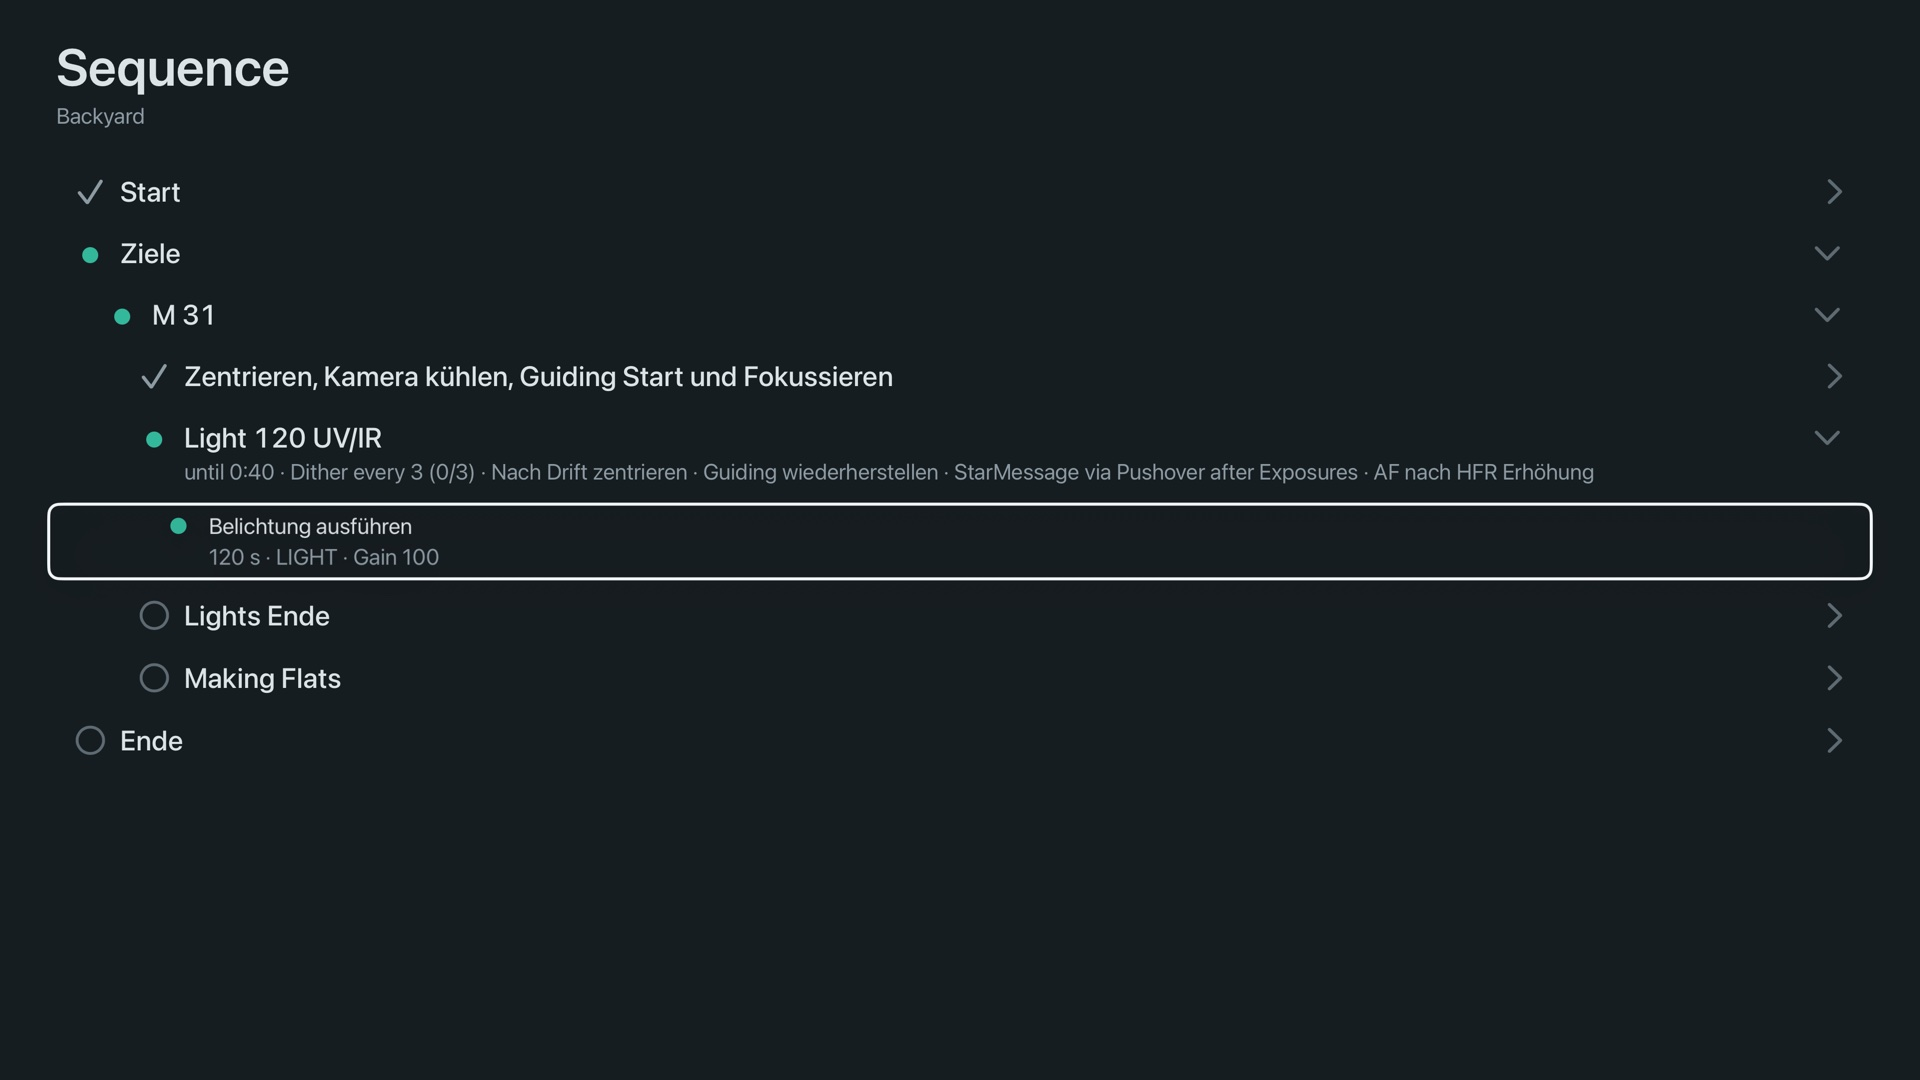
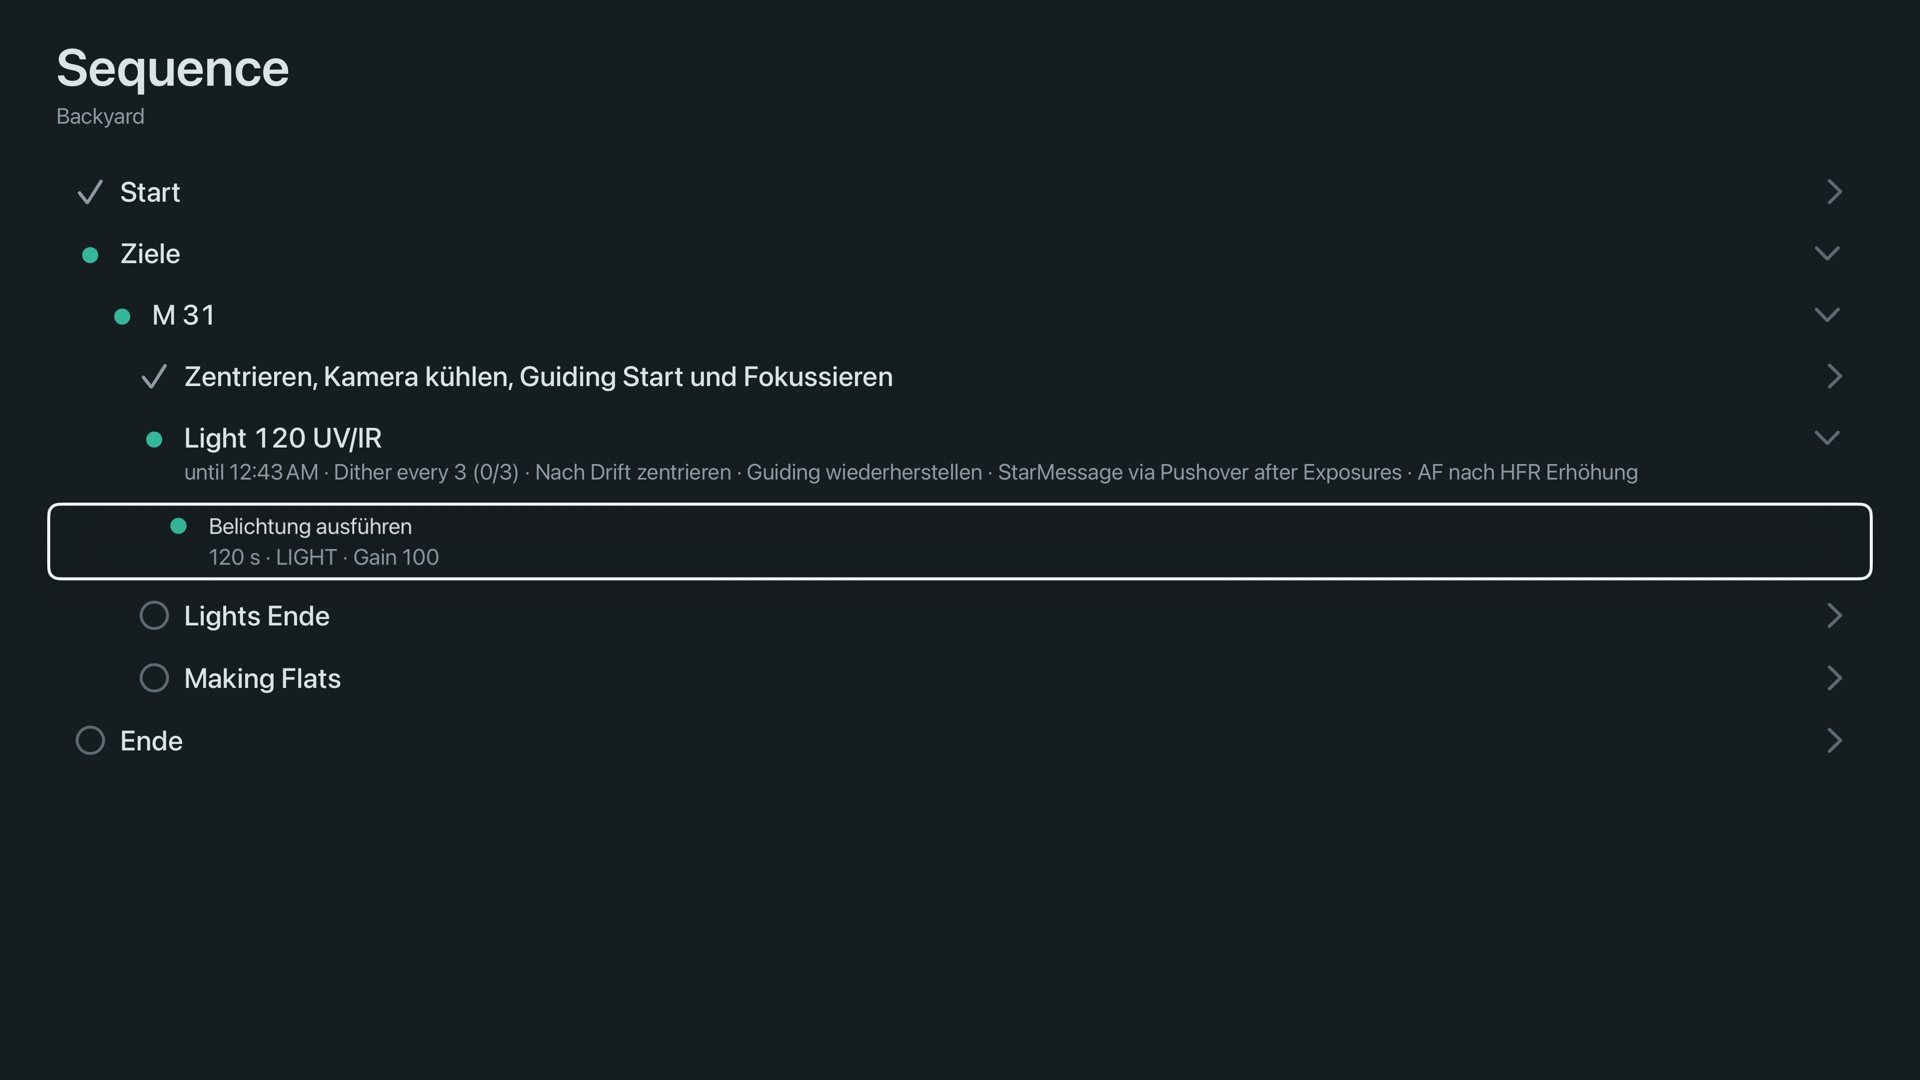
Docs: re-take screenshots with en_US formatting; note German step names
Claude-Session: https://claude.ai/code/session_018pUwQWsnrgoakVNdTaya8P

Changed region(s): [[0.125, 0.4278, 0.8438, 0.4583]]

diff --git a/README.md b/README.md
@@ -50,7 +50,7 @@ One screen for the whole night, laid out for a TV across the room.
   <img src="docs/assets/screenshots/sequence.jpg" alt="Sequence page: the whole Advanced Sequence as a tree with a status per step, the running branch expanded on the current step" width="100%">
 </p>
 
-The whole Advanced Sequence as a tree, with a status per step. The running branch is expanded and the page opens on the current step; containers expand and collapse with a click. Under each step you see what N.I.N.A. reports: loop end and iterations, the dither interval, exposure time, type, gain, filter and temperature. Step names are shown exactly as N.I.N.A. sends them. The page is read-only.
+The whole Advanced Sequence as a tree, with a status per step. The running branch is expanded and the page opens on the current step; containers expand and collapse with a click. Under each step you see what N.I.N.A. reports: loop end and iterations, the dither interval, exposure time, type, gain, filter and temperature. Step names are shown exactly as N.I.N.A. sends them (the German names in the screenshot come from a German N.I.N.A.). The page is read-only.
 
 ### Full-screen viewer with stepped zoom
 

diff --git a/docs/status.md b/docs/status.md
@@ -1,6 +1,6 @@
 # Project status
 
-Snapshot for picking up work on another machine. Last updated 2026-11-19 (M3 part 1).
+Snapshot for picking up work on another machine. Last updated 2026-11-19 (M3 TV feedback).
 
 ## Resume here
 
